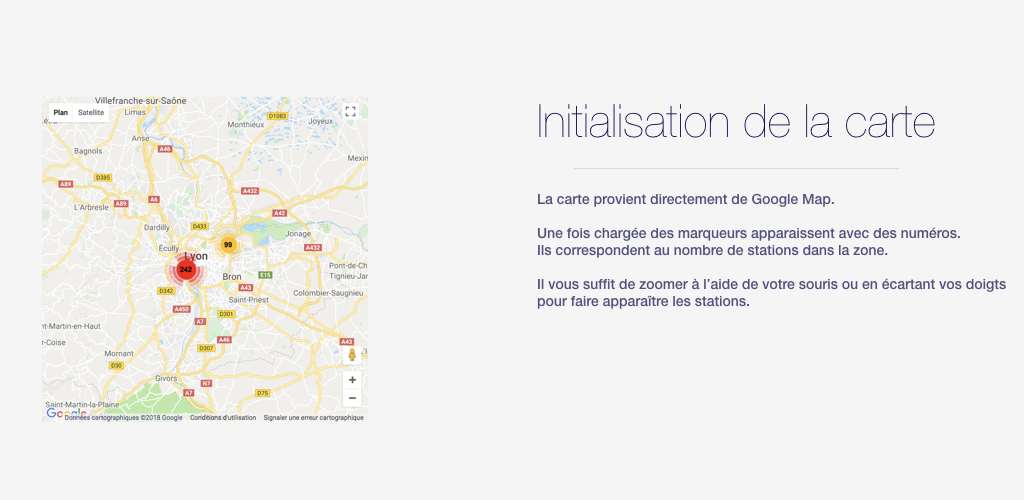
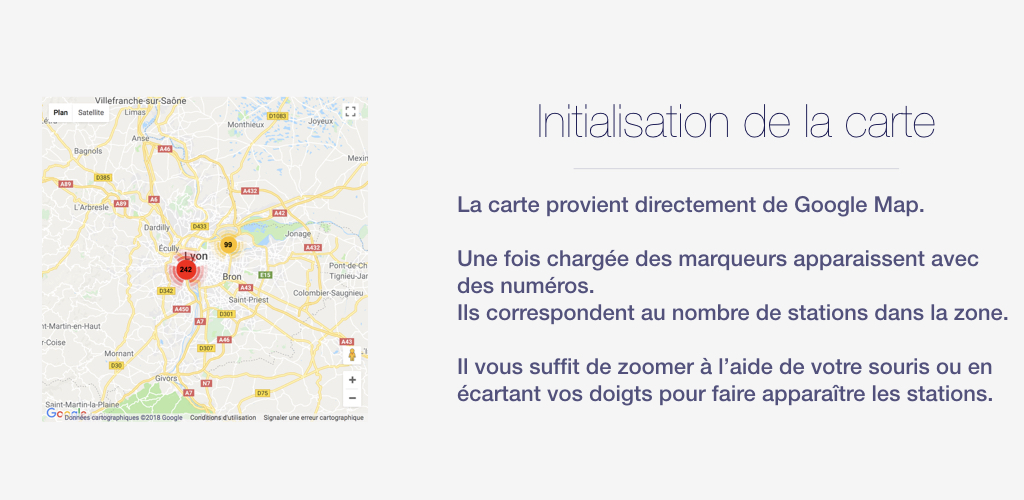
Amélioration design
Amélioration header et ajout opengraph

Changed region(s): [[0.4375, 0.39, 1.0, 0.66], [0.4375, 0.78, 0.9688, 0.81], [0.4375, 0.72, 0.9688, 0.75]]

diff --git a/index.html b/index.html
@@ -1,5 +1,5 @@
 <!DOCTYPE html>
-<html lang="en">
+<html lang="fr">
 <head>
     <meta charset="UTF-8">
     <meta name="viewport" content="width=device-width, initial-scale=1.0">
@@ -11,15 +11,22 @@
     <meta name="description"
           content="Vélocation vous propose de consulter la carte des statios Velo'v à Lyon mise à jour en temps réel et vous permet d'en réserver un.">
 
+    <meta property="og:title" content="Vélocation" />
+    <meta property="og:type" content="website" />
+    <meta property="og:url" content="http://velocation.herewedev.com" />
+    <meta property="og:image" content="/public/images/imagegraph.png" />
+    <meta property="og:description" content="Vélcoation, le site qui vous permet de réserver un vélo'v en 3 cliques">
+
 </head>
 <body>
 <div id="page-content">
     <header>
         <div class="container flex">
             <div id="company-name" class="flex">
-                <h1><strong>Vélocation</strong></h1>
-                <span>Réservation de Vélo'v à Lyon</span>
+                <h1><i class="fas fa-bicycle"></i><strong>Vélocation</strong></h1>
             </div>
+            <span>Réservation de Vélo'v à Lyon</span>
+
         </div>
 
     </header>

diff --git a/assets/css/_myBootstrap.scss b/assets/css/_myBootstrap.scss
@@ -43,14 +43,12 @@ header {
 
 header .container.flex {
   width: 75%;
-  justify-content: flex-start;
-  padding: 0 20px;
+  justify-content: center;
+  flex-direction: column;
 }
 
 #company-name {
-  height: 100px;
-  flex-direction: column;
-  justify-content: center;
+  flex-direction: row;
 }
 
 #company-name h1 {
@@ -58,10 +56,15 @@ header .container.flex {
   font-weight: 400;
 }
 
-#company-name span {
+header span {
+  display: inline-block;
+  text-align: left;
+  margin: auto;
+  transform: translateX(25px);
+
+  font-size: .95em;
   font-style: italic;
   font-weight: lighter;
-
 }
 
 .background-grey {

diff --git a/assets/css/_responsive.scss b/assets/css/_responsive.scss
@@ -1,4 +1,9 @@
 @media screen and (max-width: 1024px) {
+
+  header .container.flex {
+    width: 100%;
+  }
+
   .flex {
     flex-wrap: wrap-reverse;
   }
@@ -9,4 +14,6 @@
   #station-summary {
     margin-bottom: 20px;
   }
+
+
 }
